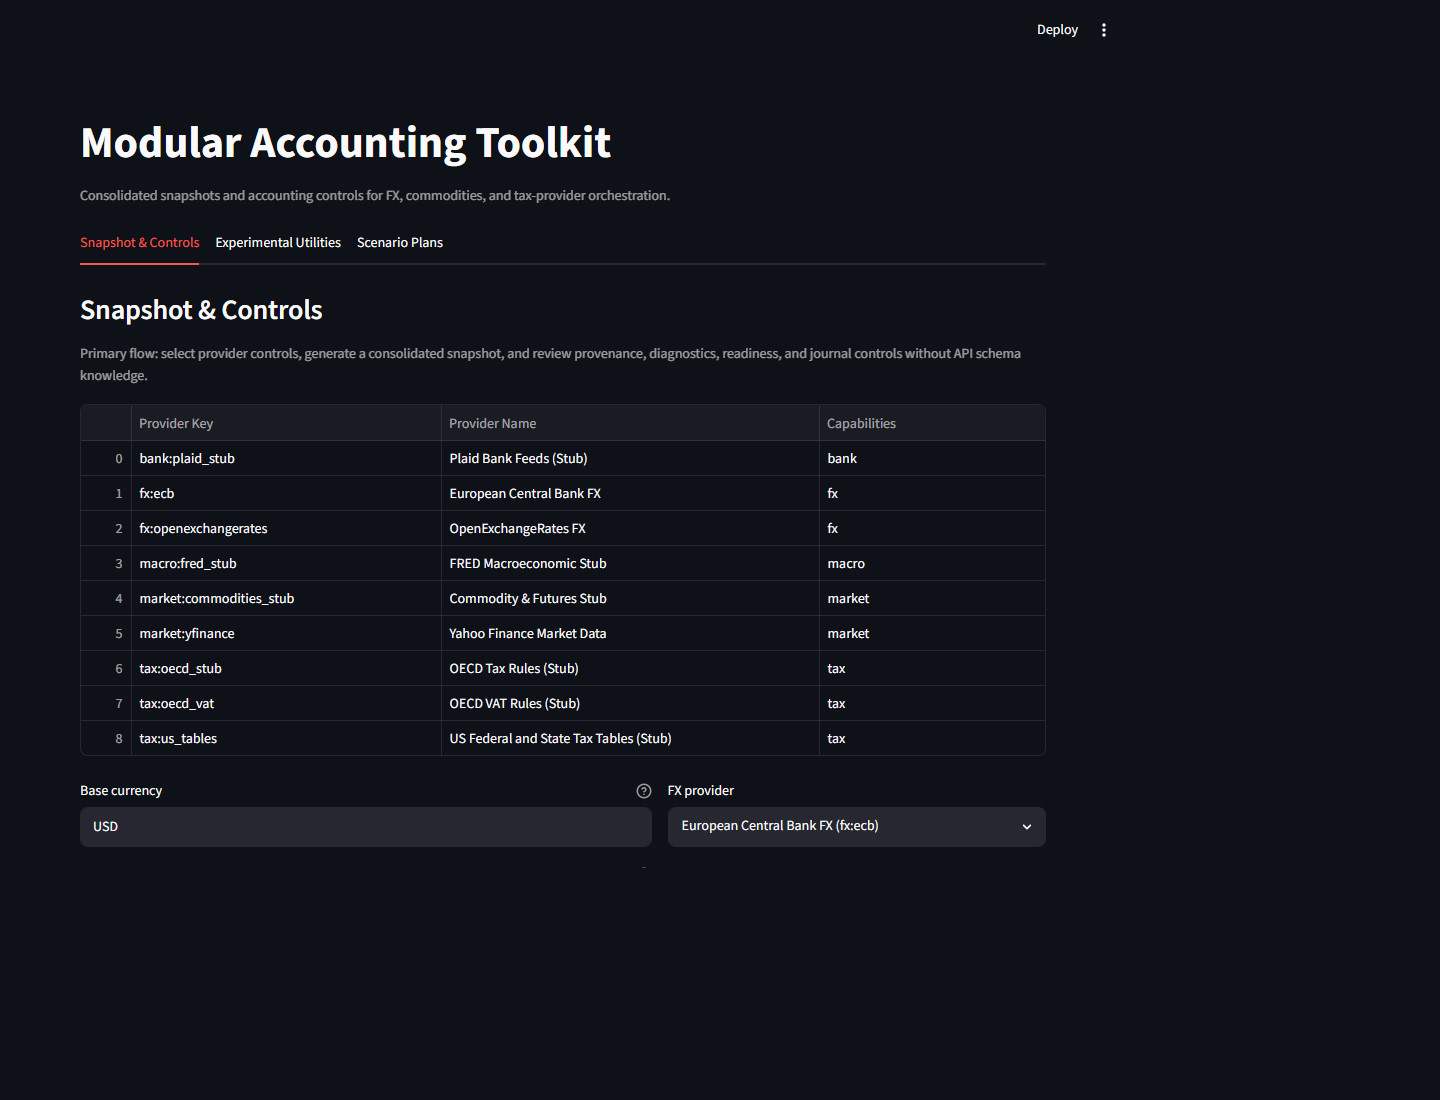
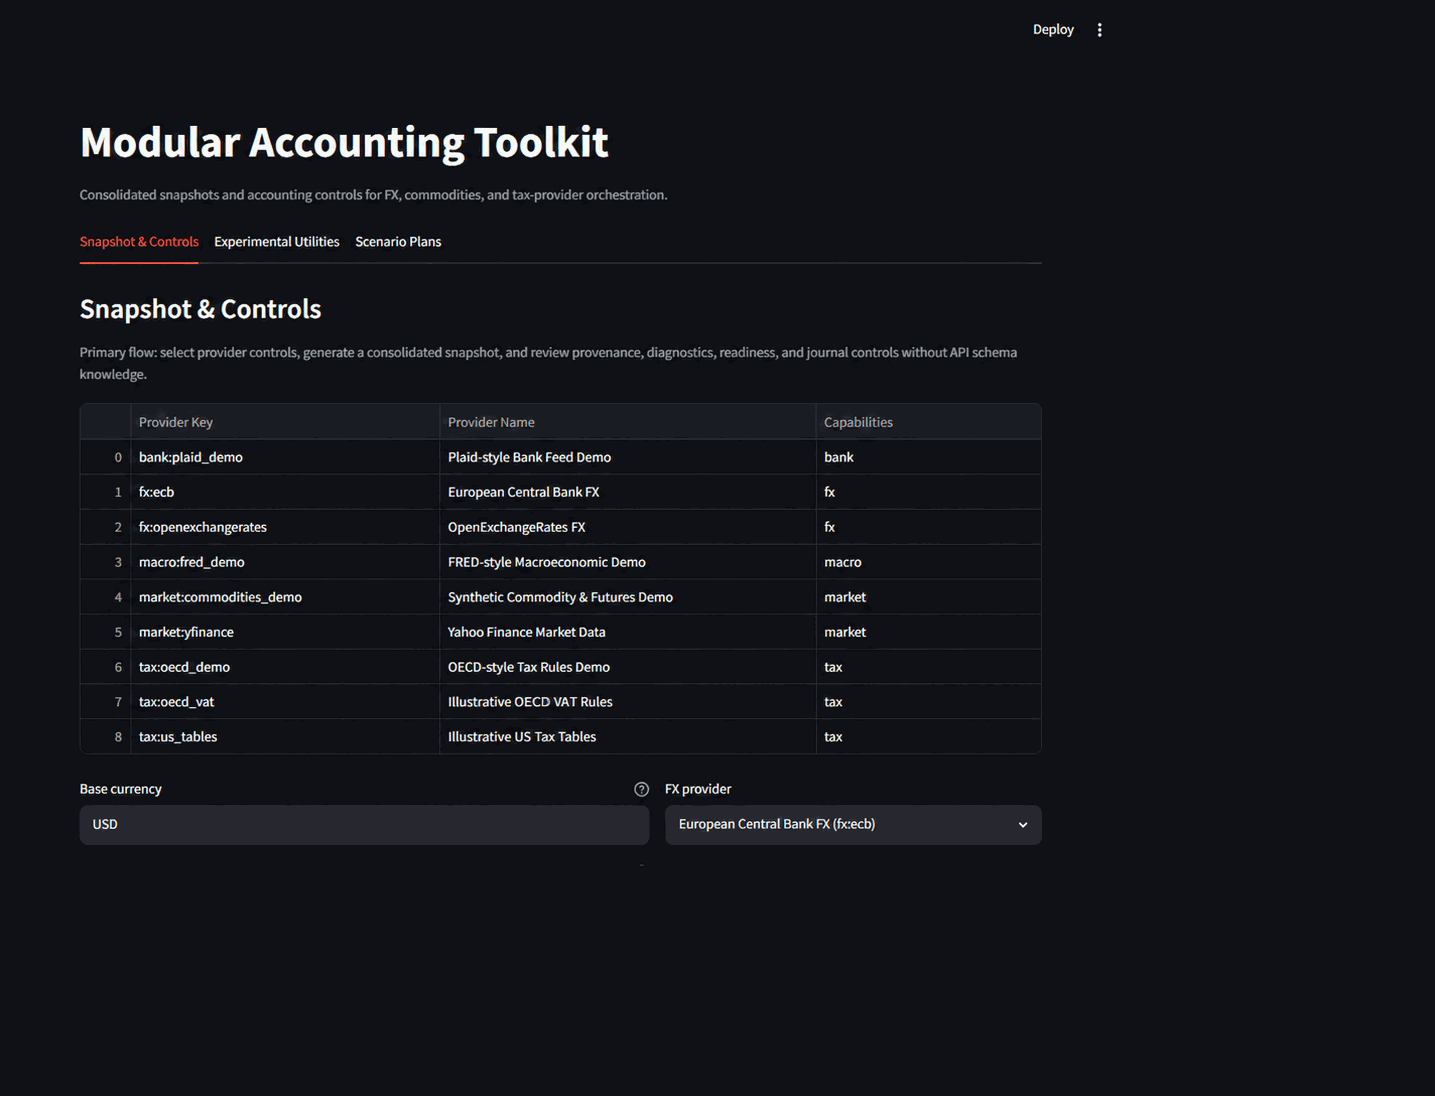
docs: correct public release visuals

diff --git a/docs/README.md b/docs/README.md
@@ -9,7 +9,7 @@ Modular Accounting is a portable, modular accounting toolkit with pluggable data
 ## Toolkit Scope
 
 - In scope: accounting snapshot orchestration, provider adapters (FX/commodity/tax), journal and ledger control surfaces, and observability-first operational tooling.
-- Out of scope: full ERP coverage, treasury execution workflows, and production-hardened React UI (the React app remains a placeholder scaffold).
+- Out of scope: full ERP coverage, treasury execution workflows, and a production-hardened React UI.
 - Release readiness is tracked in the public audit log at [../PUBLIC_RELEASE_AUDIT.md](../PUBLIC_RELEASE_AUDIT.md).
 
 ## Getting Started
@@ -24,7 +24,6 @@ Modular Accounting is a portable, modular accounting toolkit with pluggable data
 - **Backend**: FastAPI application with SQLModel and SQLite
 - **UI**: Streamlit demonstration interface implemented in `src/apps/web/app.py`
 - **Compatibility launcher**: `apps/web/app.py` shims to `src/apps/web/app.py` for tooling and tests
-- **React UI**: Experimental placeholder under `apps/react-ui/`
 - **Plugins**: Drop-in provider modules for data sources
 - **CLI**: Operational commands for snapshots and health checks
 - **Extensions**: Optional automation packs with observability
@@ -32,7 +31,7 @@ Modular Accounting is a portable, modular accounting toolkit with pluggable data
 ## API Keys & Secrets
 
 - FX providers that call OpenExchangeRates expect `OPENEXCHANGERATES_APP_ID` to be present in the environment. The provider refuses to start without it and never logs the credential.
-- Bank feeds (Plaid stub) and macro data providers do not require credentials in this repo; wire real keys via env variables when replacing stubs.
+- Bank-feed and macro demo providers do not require credentials in this repo; configure real keys when using external providers.
 - Prefer `.env` files kept out of version control or a secrets manager in production; avoid baking credentials into CLI flags or config files.
 
 ## Documentation Sections

diff --git a/PUBLIC_RELEASE_AUDIT.md b/PUBLIC_RELEASE_AUDIT.md
@@ -119,7 +119,7 @@ No visibility, tag, release, branch-protection, ruleset, or repository-security 
 - JWT signing uses PyJWT.
 - Runtime configuration supports a high-entropy persistent JWT secret through environment variables.
 - The application generates an ephemeral secret when none is configured and warns that tokens will rotate on restart.
-- Example environment values are placeholders rather than live credentials.
+- Example environment values do not contain live credentials.
 
 Before any public deployment, operators must replace example credentials and provide a persistent JWT secret.
 

diff --git a/README.md b/README.md
@@ -114,7 +114,7 @@ For Docker Compose, configuration, validation, and troubleshooting, use the [set
 | ---- | ----------- |
 | [src/apps/](src/apps/README.md) | Implemented Python service packages, including the Streamlit demonstration interface in `src/apps/web/app.py`. |
 | [apps/web/app.py](apps/web/app.py) | Compatibility and test launcher shim that executes `src/apps/web/app.py`. |
-| [apps/react-ui/](apps/react-ui/README.md) | Experimental placeholder React surface (not part of the validated accounting runtime). |
+| `apps/react-ui/` | Experimental React source directory (not part of the validated accounting runtime). |
 | [src/cli/](src/cli/README.md) | Demo and operational CLI entry points. |
 | [src/plugins/](src/plugins/README.md) | Provider and extension reference plugins. |
 | [src/tools/](src/tools/README.md) | Quality-gate, audit, and release tooling. |

diff --git a/docs/RELEASE_NOTES.md b/docs/RELEASE_NOTES.md
@@ -51,7 +51,7 @@ Demo providers use controlled sample data unless external credentials are config
 ## Known Limits
 
 - This is a portfolio-grade controls toolkit, not a production accounting system.
-- The React directory is an experimental placeholder and is not part of the validated runtime.
+- The React directory is experimental and is not part of the validated runtime.
 - OTLP export remains optional and requires the OpenTelemetry extras described in the operations documentation.
 - Streamlit `use_container_width` deprecation warnings remain a maintenance item.
 - Provider catalog persistence and several legacy TODOs remain future work.

diff --git a/docs/setup.md b/docs/setup.md
@@ -64,7 +64,7 @@ cp config/.env.example .env
 export MODACCT_ENV_FILE="$PWD/.env"
 ```
 
-Replace all placeholder credentials. At minimum, use a stable high-entropy `MODACCT_JWT_SECRET_KEY` for persistent authentication sessions.
+Replace every example credential value. At minimum, use a stable high-entropy `MODACCT_JWT_SECRET_KEY` for persistent authentication sessions.
 
 Common variables:
 